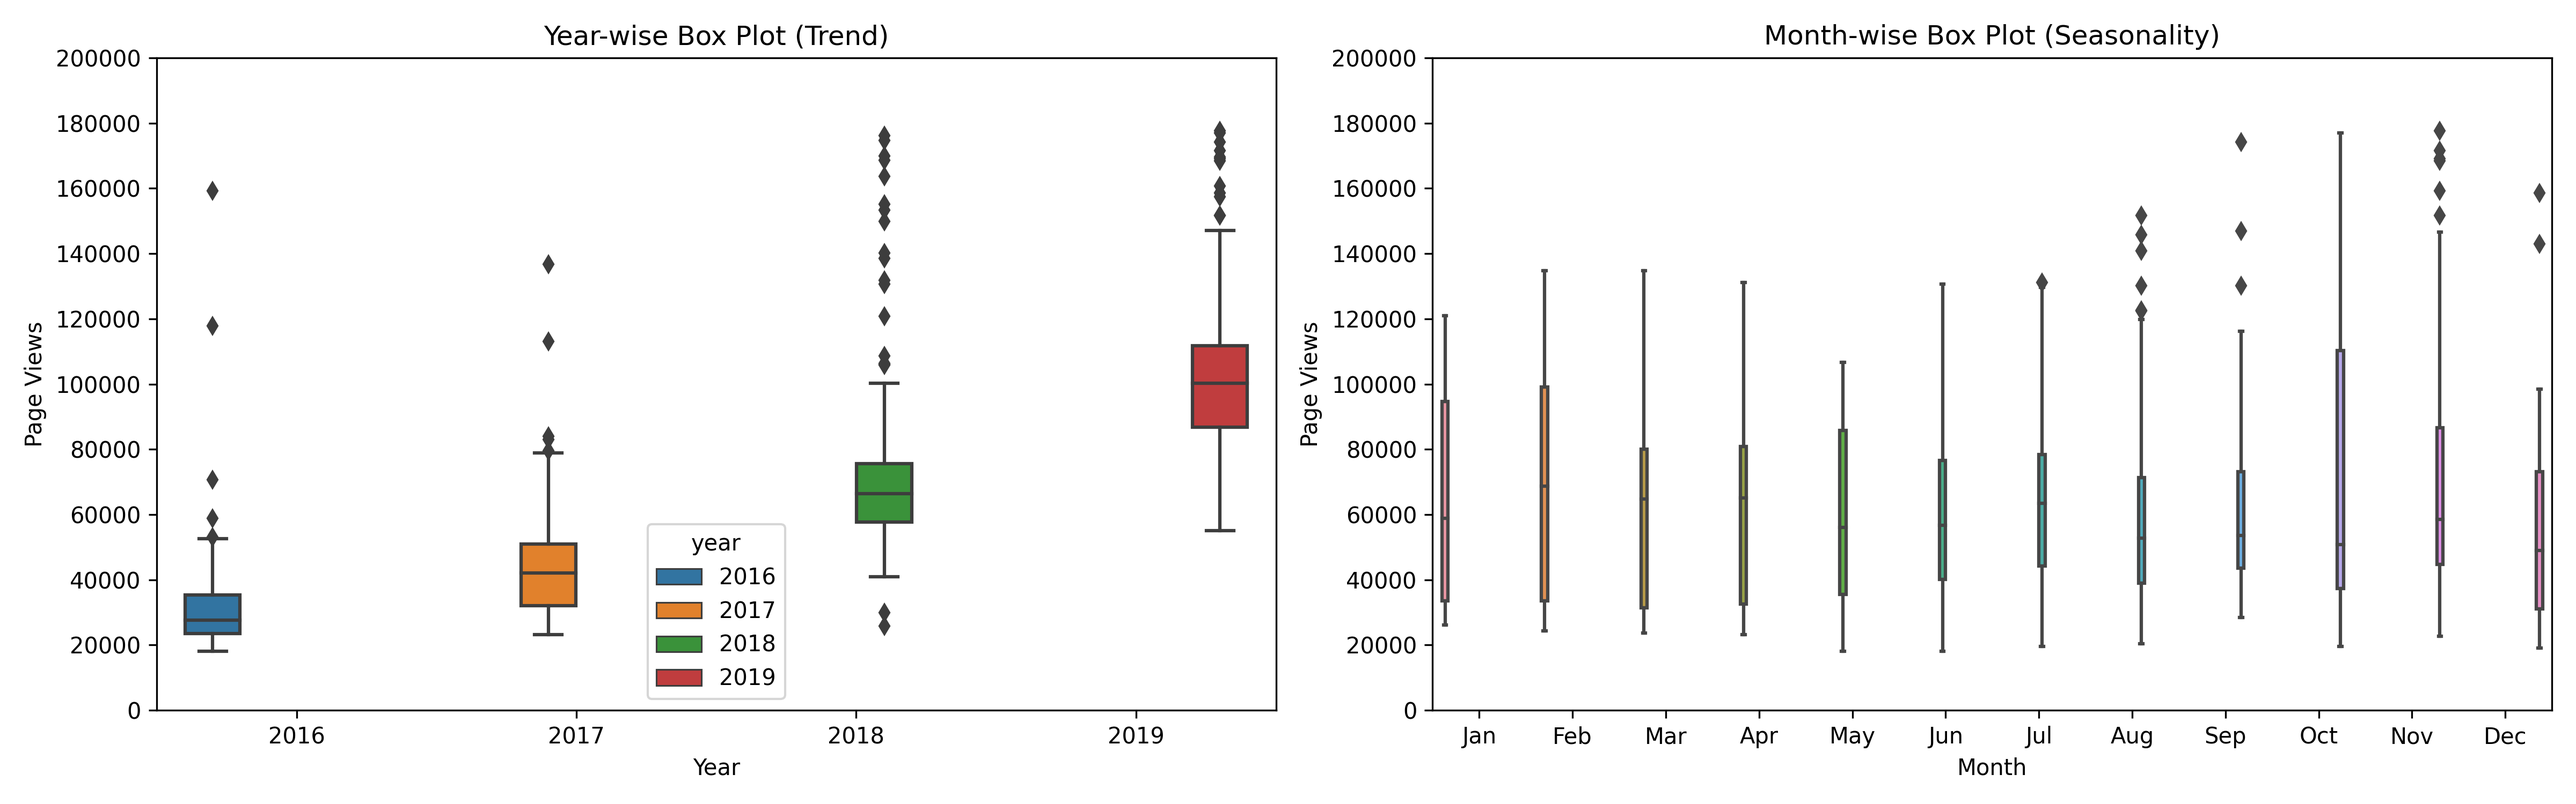
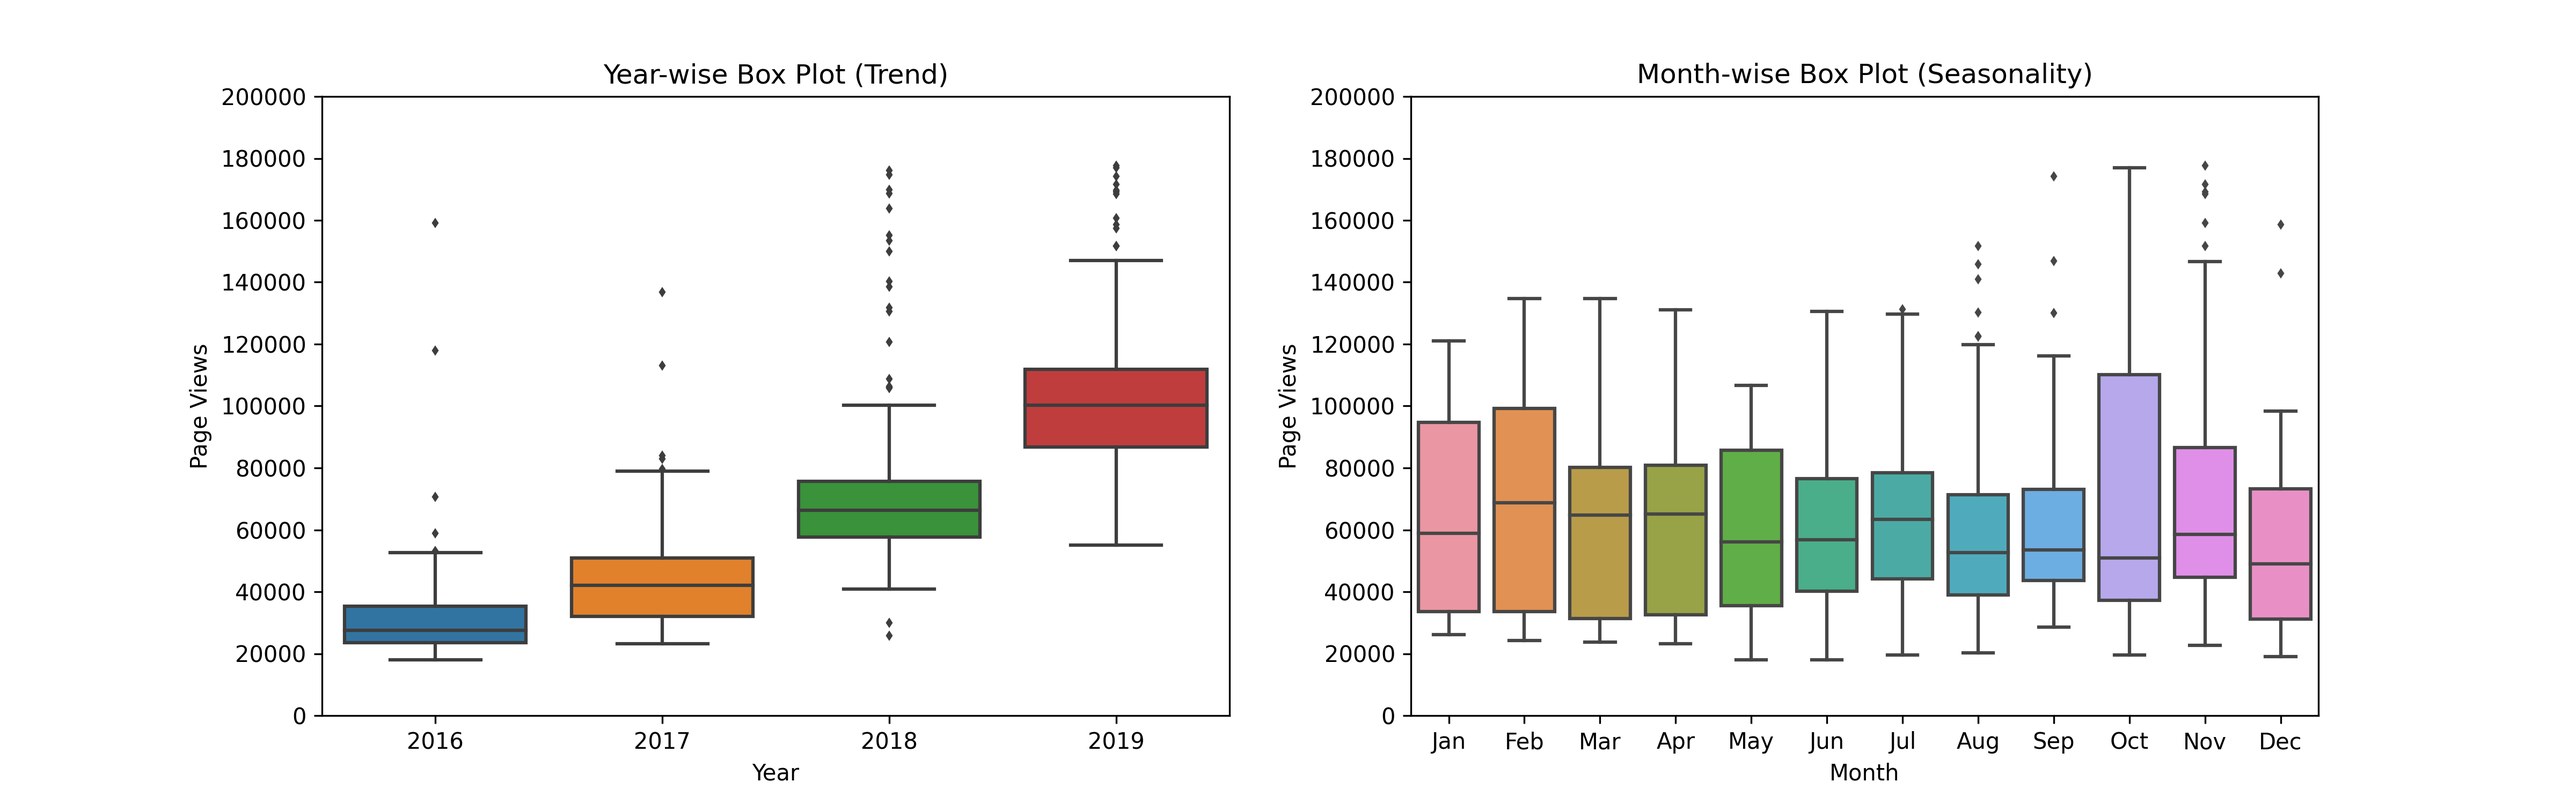
Adjusted to meet unit tests and older library version

diff --git a/time_series_visualizer.py b/time_series_visualizer.py
@@ -21,8 +21,8 @@ df = df[
 ]
 
 def draw_line_plot():
-    # Draw line plot
 
+    # Draw line plot
     fig = plt.figure(figsize=(16,5))
     plt.title("Daily freeCodeCamp Forum Page Views 5/2016-12/2019")
     plt.xlabel("Date")
@@ -35,11 +35,11 @@ def draw_line_plot():
     return fig
 
 def draw_bar_plot():
+    
     # Copy and modify data for monthly bar plot
     df_bar = df.copy()
     df_bar['Years'] = df_bar.index.year
     df_bar['Months'] = df_bar.index.strftime('%B')
-    print(df_bar.head(), df_bar.dtypes)
 
     # Draw bar plot
     fig = plt.figure(figsize = (8,7), dpi = 300)
@@ -62,8 +62,6 @@ def draw_bar_plot():
 
 def draw_box_plot():
 
-    #Working on fixing this one
-
     # Prepare data for box plots (this part is done!)
     df_box = df.copy()
     df_box.reset_index(inplace = True)
@@ -76,28 +74,28 @@ def draw_box_plot():
 
     sns.boxplot(
         data = df_box, x = 'year', y = 'value', ax = axs[0],
-        hue = 'year', palette = 'tab10',
-        #fliersize = 2, flierprops = dict(marker='d')
+        #hue = 'year', palette = 'tab10',
+        fliersize = 2, #flierprops = dict(marker='d')
     )
     
     sns.boxplot(
         data = df_box, x = 'month', y = 'value' , ax = axs[1],
-        order = months, hue_order = months, hue = 'month',
-        #fliersize = 2, flierprops = dict(marker='d')
+        order = months, hue_order = months, #hue = 'month',
+        fliersize = 2, #flierprops = dict(marker='d')
     )
 
     axs[0].set_title("Year-wise Box Plot (Trend)")
     axs[0].set_xlabel("Year")
+    axs[0].legend().remove()
 
     axs[1].set_title("Month-wise Box Plot (Seasonality)")
     axs[1].set_xlabel("Month")
-
-    plt.tight_layout()
+    axs[1].legend().remove()
 
     plt.setp( 
         axs, 
         ylabel="Page Views", 
-        ylim=(0,200000), yticks=[i for i in range(0, 200001, 20000)]
+        ylim=(0,200000), yticks=[i for i in range(0, 200001, 20000)],
     )
 
     # Save image and return fig (don't change this part)
